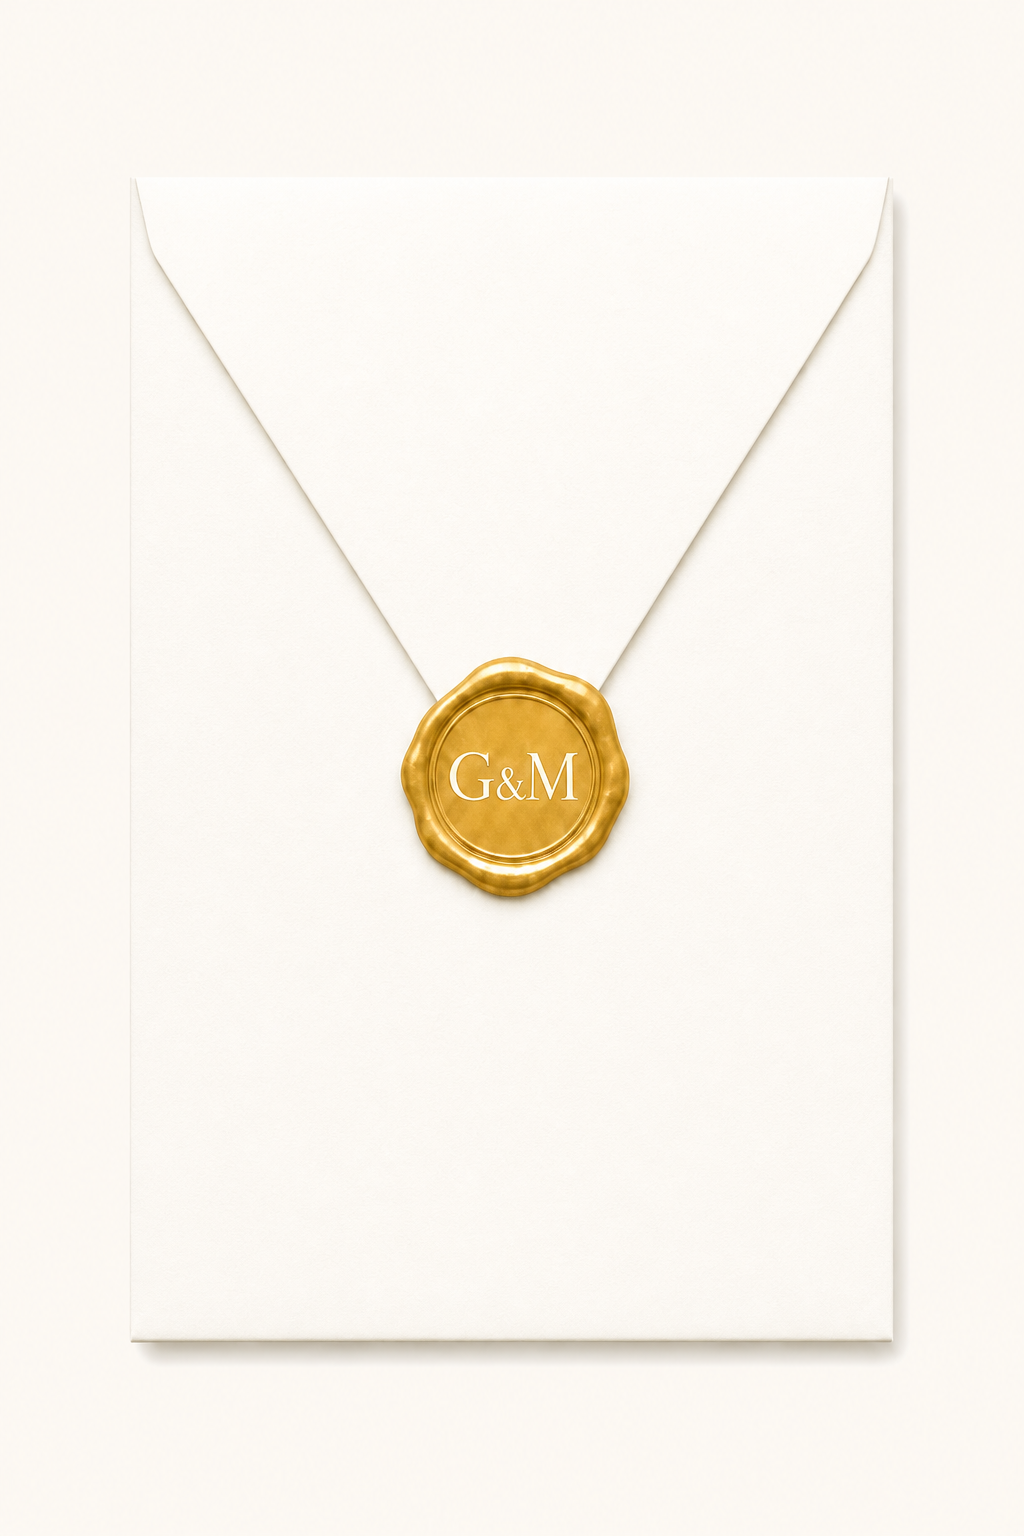
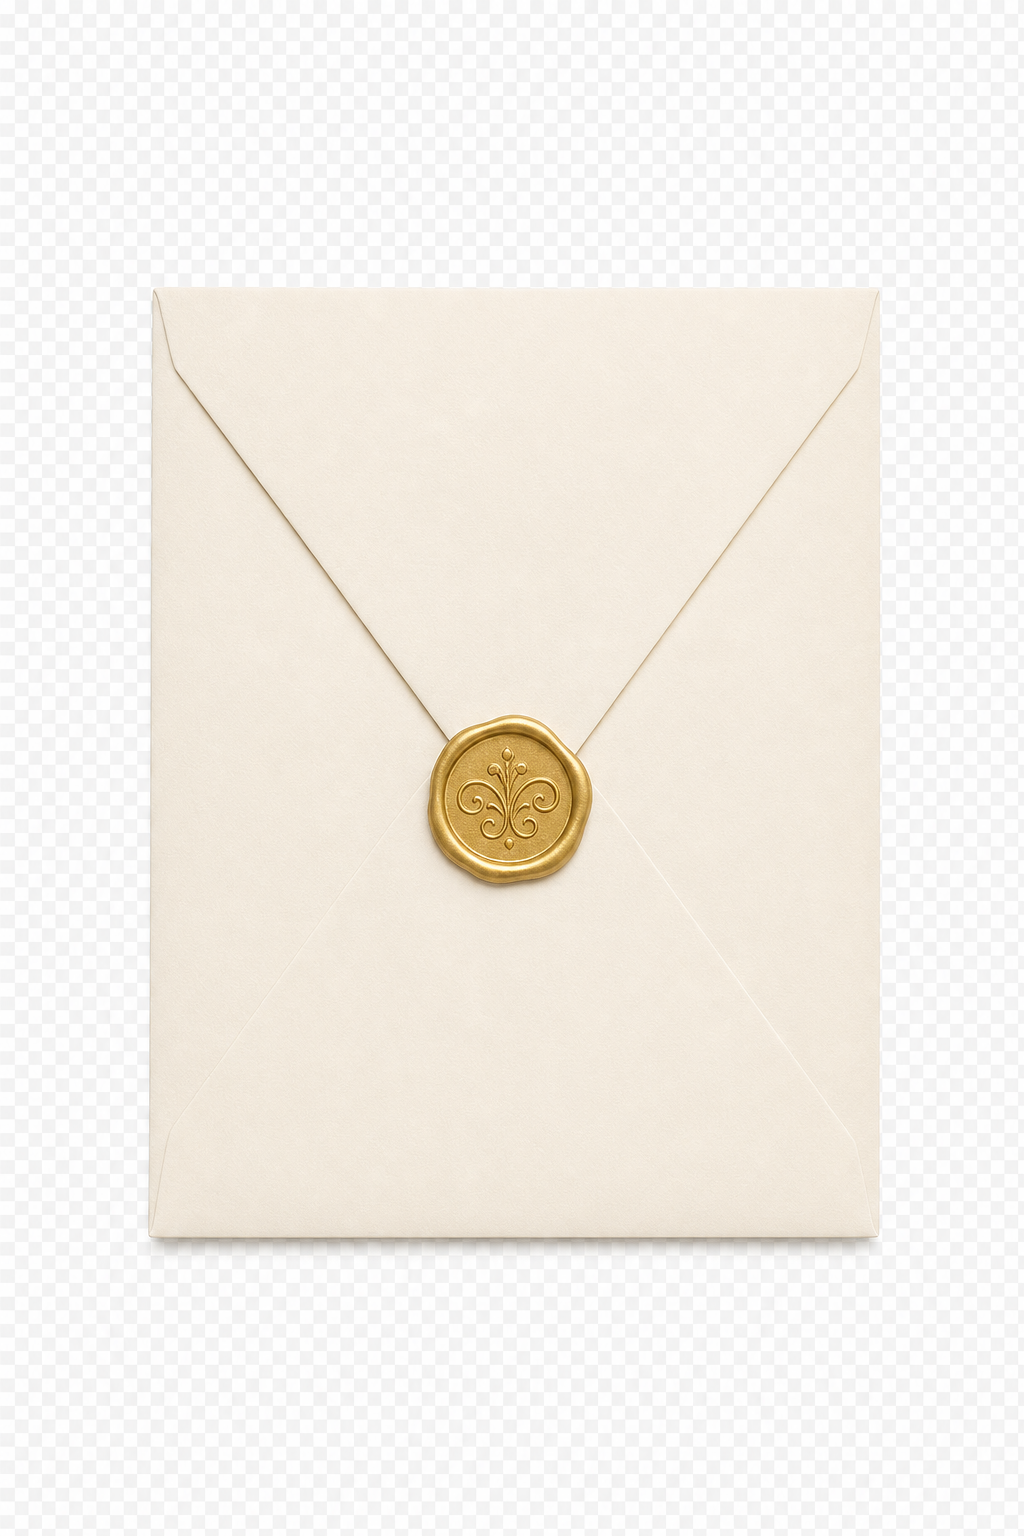
Aggiorna asset busta chiusa e aperta su sfondo trasparente
Nuove immagini prodotto avorio #f7f1e6, stesso framing 1024x1536
per crossfade; busta aperta con card che spunta senza testo leggibile.

Changed region(s): [[0.125, 0.125, 0.9062, 0.9062], [0.4375, 0.3125, 0.5312, 0.375], [0.4688, 0.625, 0.5, 0.6562]]

diff --git a/index.html b/index.html
@@ -71,8 +71,8 @@
 
     <button type="button" class="envelope" id="envelope" aria-label="Apri la busta d'invito">
       <span class="envelope__stage" id="envelopeStage">
-        <img class="envelope__open" src="images/envelope-open.png?v=14" alt="" draggable="false" />
-        <img class="envelope__closed" src="images/envelope-closed.png?v=14" alt="" draggable="false" />
+        <img class="envelope__open" src="images/envelope-open.png?v=15" alt="" draggable="false" />
+        <img class="envelope__closed" src="images/envelope-closed.png?v=15" alt="" draggable="false" />
         <div class="envelope__letter" aria-hidden="true">
           <span class="envelope__letter-monogram">G &amp; M</span>
         </div>